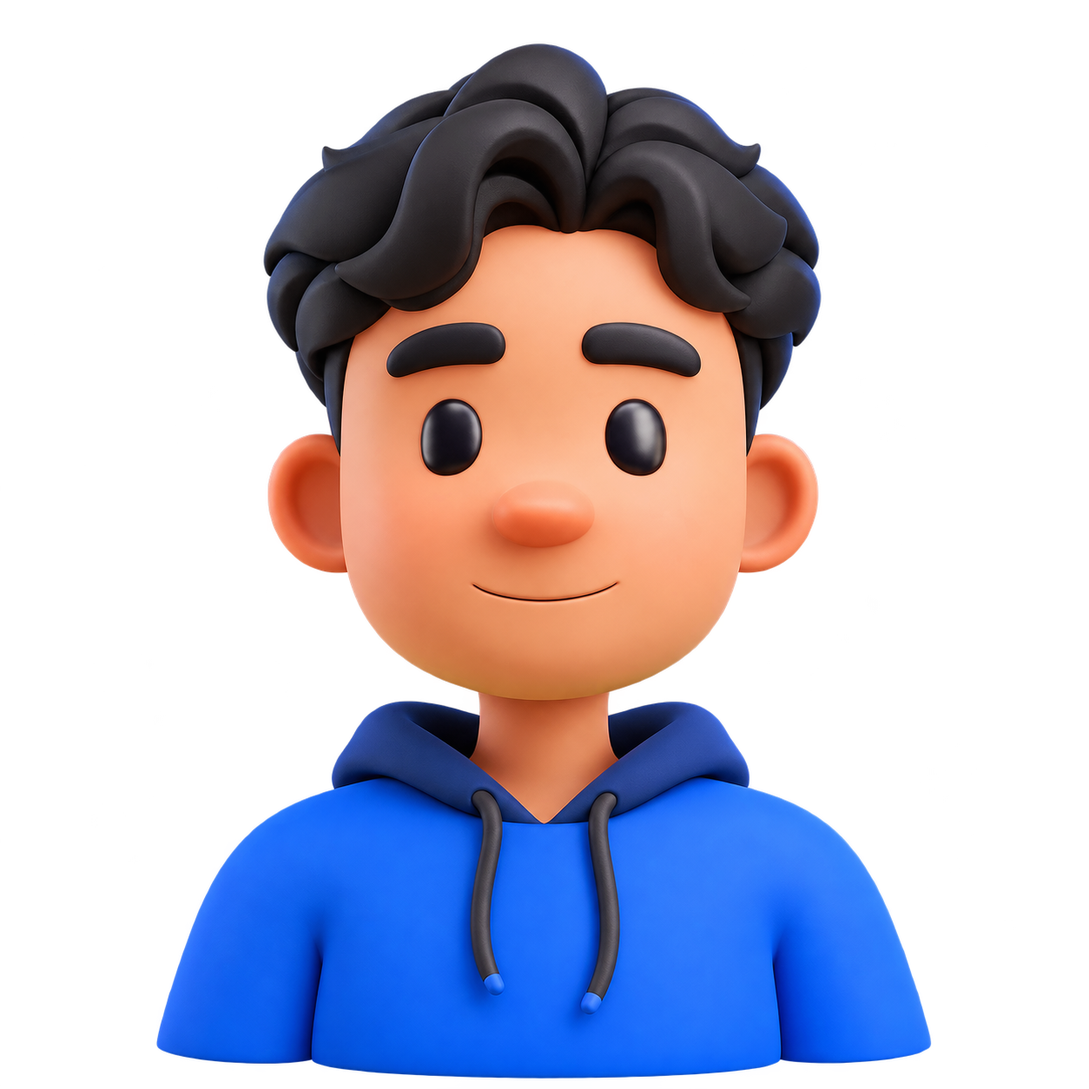
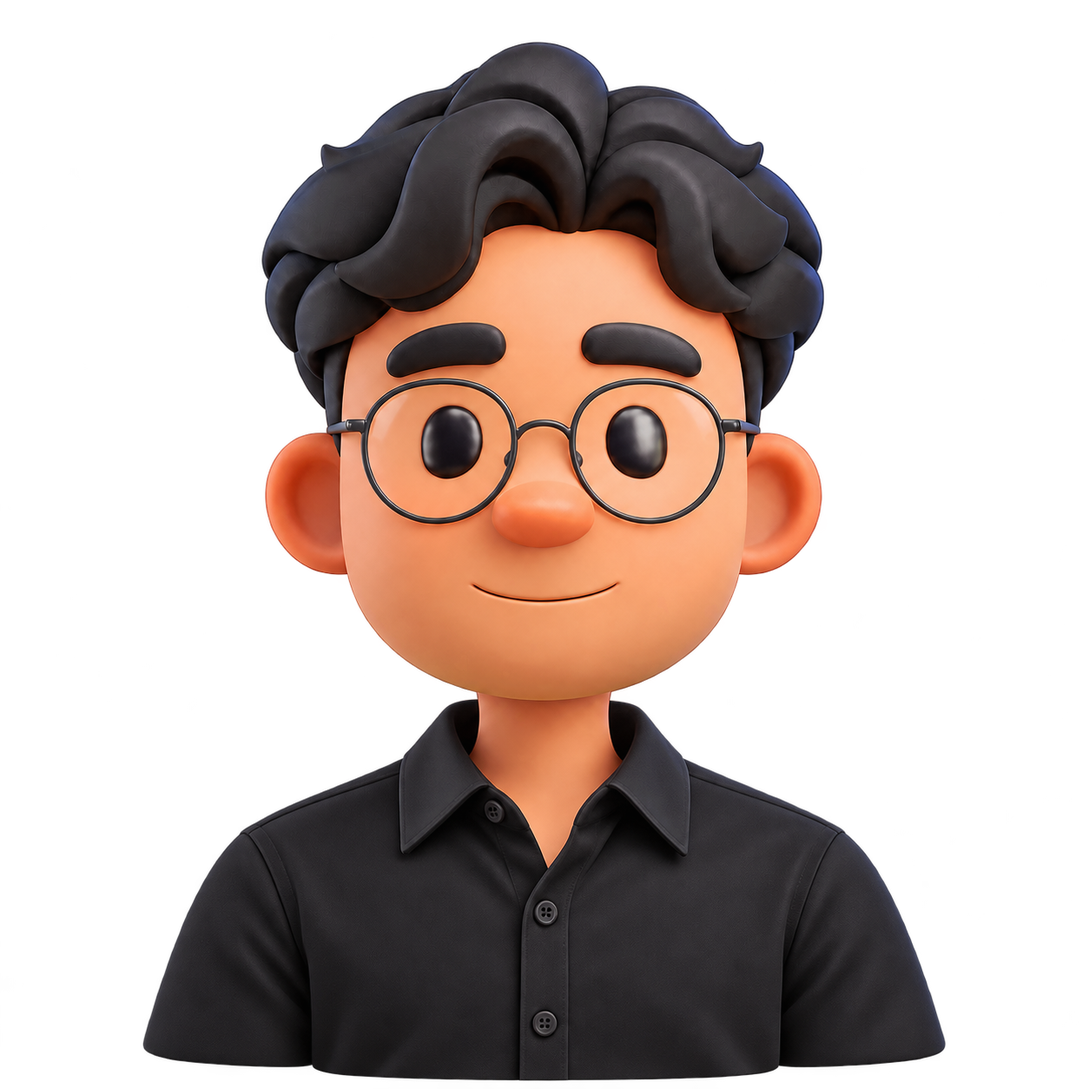
update project

diff --git a/src/app/page.tsx b/src/app/page.tsx
@@ -2,6 +2,7 @@
 import { useState } from 'react';
 import Image from 'next/image';
 import HeroAvatar from '@/components/HeroAvatar';
+import SkillsCube from '@/components/SkillsCube';
 import SceneContent, { MotionText } from '@/components/SceneContent';
 import TradingAchievements from '@/components/TradingAchievements';
 import { scenes, useFocusNavigation } from '@/components/useFocusNavigation';
@@ -10,7 +11,9 @@ import { ArrowUpRight, ArrowRight, Code2, ChartNoAxesCombined, Menu, X, Plus, Mi
 const menuIcons=[BriefcaseBusiness,UserRound,ChartNoAxesCombined,Mail];
 const projects=[
  {name:'BillMate',category:'GROUP EXPENSE MANAGEMENT',tag:'Finance tools',description:'Split group expenses, simplify who owes whom, and settle up with VietQR. Includes shared-fund tracking and Excel import/export.',stack:['Next.js','TypeScript','Zustand','Recharts'],kind:'billmate',image:'/images/projects/billmate-live.jpg',url:'https://bill-mate-five.vercel.app/',overview:'An expense-sharing app for trips, meals and everyday group spending. Members can split bills equally or enter custom amounts, track a shared fund and see a clear settlement plan.',details:['Equal and custom expense splits, with member balances and simplified debt settlements.','Shared-fund mode, expense categories and visual spending summaries.','VietQR payment codes, Excel import/export and downloadable share cards.','Client-side state with Zustand, browser storage and shareable URL snapshots.']},
- {name:'BoardRealm',category:'REAL-TIME MULTIPLAYER PLATFORM',tag:'Multiplayer',description:'Play chess, Xiangqi and party games with friends in shared rooms. Real-time game-state sync, spectator access and link-based invitations.',stack:['Next.js','TypeScript','Supabase Realtime','Framer Motion'],kind:'boardrealm',image:'/images/projects/boardrealm-live.jpg',url:'https://chess-tournament-xi.vercel.app/',overview:'A browser-based collection of board and party games that connects friends through shareable rooms. The project includes chess, Xiangqi, Go, Gomoku, Checkers, Jungle, Ô Ăn Quan, Werewolf, Uno, Exploding Kittens and Battleship.',details:['Create or join a room via its link, with player and spectator roles.','Supabase Realtime broadcasts synchronize moves, room state and game events.','Chess room controls include readiness, time settings and undo requests.','Game-specific boards, rule logic and state contexts, with animated interface feedback.']}
+ {name:'BoardRealm',category:'REAL-TIME MULTIPLAYER PLATFORM',tag:'Multiplayer',description:'Play chess, Xiangqi and party games with friends in shared rooms. Real-time game-state sync, spectator access and link-based invitations.',stack:['Next.js','TypeScript','Supabase Realtime','Framer Motion'],kind:'boardrealm',image:'/images/projects/boardrealm-live.jpg',url:'https://chess-tournament-xi.vercel.app/',overview:'A browser-based collection of board and party games that connects friends through shareable rooms. The project includes chess, Xiangqi, Go, Gomoku, Checkers, Jungle, Ô Ăn Quan, Werewolf, Uno, Exploding Kittens and Battleship.',details:['Create or join a room via its link, with player and spectator roles.','Supabase Realtime broadcasts synchronize moves, room state and game events.','Chess room controls include readiness, time settings and undo requests.','Game-specific boards, rule logic and state contexts, with animated interface feedback.']},
+ {name:'ToolHub',category:'EVERYDAY UTILITY WORKSPACE',tag:'Utilities',description:'52 practical tools in one workspace: JSON, text, images, design and daily utilities. Search, save favourites and get results without an account.',stack:['JavaScript','HTML / CSS','Browser APIs'],kind:'toolhub',image:'/images/projects/toolhub-live.jpg',url:'https://tool-hub-tau-ten.vercel.app/',overview:'A browser-based toolkit designed to reduce repetitive work. ToolHub brings development, text, security, design, network, finance, daily productivity and marketing utilities together in a searchable workspace.',details:['52 tools organised by category, with search, favourites and recently used tools.','Developer utilities include JSON formatting and schema validation, SQL formatting, UUID generation, encoding and timestamp conversion.','Design utilities include palettes, SVG optimisation, image cropping and conversion, and favicon generation.','Most tools process locally in the browser; IP and exchange-rate lookups explicitly use online services.']}
+
 ];
 export default function Home(){
  const [workIndex,setWorkIndex]=useState(0);
@@ -21,10 +24,10 @@ export default function Home(){
  const workPosition=visibleProjects.indexOf(workIndex);
  async function contact(e:React.FormEvent<HTMLFormElement>){e.preventDefault();setSending(true);setStatus('');const form=e.currentTarget;const data=Object.fromEntries(new FormData(form));try{const res=await fetch('/api/contact',{method:'POST',headers:{'Content-Type':'application/json'},body:JSON.stringify(data)});const result=await res.json();setStatus(res.ok?'Message sent. Thank you for reaching out.':result.error);if(res.ok)form.reset()}catch{setStatus('Connection failed. Please try again.')}finally{setSending(false)}}
  return <>
- <header className="nav"><button className="wordmark brand-button" aria-label="Huy home" onClick={()=>go(0)}><span className="avatar-logo"><Image src="/images/huy-avatar-toy-3d.png" alt="" width={64} height={64} priority/></span><span className="brand-name">huy<span>.</span></span><span className="wordmark-label">FRONTEND DEVELOPER & TRADER</span></button><nav className={menu?'nav-links expanded':'nav-links'} aria-label="Main navigation">{scenes.slice(1).map((x,i)=>{const Icon=menuIcons[i];return <button key={x} className={scene===i+1?'current':''} aria-current={scene===i+1?'page':undefined} onClick={()=>{go(i+1);setMenu(false)}}><Icon size={15} strokeWidth={1.6} aria-hidden="true"/><span>{x}</span></button>})}</nav><button className="nav-contact" onClick={()=>go(4)}>Let’s talk <ArrowUpRight size={15}/></button><button className="menu-toggle" aria-label={menu?'Close menu':'Open menu'} aria-expanded={menu} onClick={()=>setMenu(!menu)}>{menu?<X/>:<Menu/>}</button></header>
+ <header className="nav"><button className="wordmark brand-button" aria-label="Huy home" onClick={()=>go(0)}><span className="avatar-logo"><Image src="/images/huy-avatar-black-shirt-3d.png" alt="" width={64} height={64} priority/></span><span className="brand-name">huy<span>.</span></span><span className="wordmark-label">FRONTEND DEVELOPER & TRADER</span></button><nav className={menu?'nav-links expanded':'nav-links'} aria-label="Main navigation">{scenes.slice(1).map((x,i)=>{const Icon=menuIcons[i];return <button key={x} className={scene===i+1?'current':''} aria-current={scene===i+1?'page':undefined} onClick={()=>{go(i+1);setMenu(false)}}><Icon size={15} strokeWidth={1.6} aria-hidden="true"/><span>{x}</span></button>})}</nav><button className="nav-contact" onClick={()=>go(4)}>Let’s talk <ArrowUpRight size={15}/></button><button className="menu-toggle" aria-label={menu?'Close menu':'Open menu'} aria-expanded={menu} onClick={()=>setMenu(!menu)}>{menu?<X/>:<Menu/>}</button></header>
  <main className="focus-stage cinematic-stage" data-phase={phase} data-engine={engine} style={{'--scene-direction':direction} as React.CSSProperties}><div className="cinematic-grid" aria-hidden="true"/><div className="scene-atmosphere" aria-hidden="true"><div className="atmosphere-orb orb-a"/><div className="atmosphere-orb orb-b"/><div className="atmosphere-orbit"/></div><SceneContent key={`scene-${scene}`}>{scene===0&&<section className="hero"><div className="hero-topline"><span><i/> OPEN TO INTERESTING COLLABORATIONS</span><span>BASED IN VIETNAM · THINKING GLOBALLY</span></div><div className="hero-layout"><div className="hero-copy"><div className="eyebrow">FRONTEND DEVELOPER / FUTURES TRADER</div><h1><MotionText>I build systems.<br/>I trade <span>possibilities.</span></MotionText></h1><p>Frontend Developer working with Next.js and React.<br/>Futures trader focused on NQ / ES / YM,<br className="desktop-break"/> QT × ICT and the NYAM session.</p><div className="hero-actions"><button className="button primary" onClick={()=>go(1)}>Explore my work <ArrowUpRight size={17}/></button><button className="text-link" onClick={()=>go(2)}>The person behind it <ArrowRight size={16}/></button></div><div className="mode-switch" role="group" aria-label="Explore perspective"><button className={mode==='dev'?'active':''} onClick={()=>setMode('dev')}><Code2 size={15}/> Developer</button><button className={mode==='trader'?'active':''} onClick={()=>setMode('trader')}><ChartNoAxesCombined size={15}/> Trader</button></div></div><div className="hero-art"><div className="art-cross top">+</div><HeroAvatar mode={mode}/><div className="orbit-label"><span className="tiny-square"/>{mode==='dev'?'BUILD. TEST. ITERATE.':'OBSERVE. PLAN. EXECUTE.'}</div><div className="art-caption"><span>HUY / DIGITAL SELF</span><span>FIG. 001 / {mode==='dev'?'SYSTEMS':'MARKETS'}</span></div><div className="art-cross bottom">+</div></div></div><div className="hero-bottom"><span>SCROLL TO EXPLORE <span className="down">↓</span></span><span>CODE WITH PURPOSE. TRADE WITH DISCIPLINE.</span><span>© 2026</span></div></section>}
- {scene===1&&<section className="section work" id="work"><div className="section-heading"><div><div className="eyebrow">IDEAS INTO REALITY</div><h2><MotionText>Selected work<span className="accent">.</span></MotionText></h2></div><p>A few things I’ve built.<br/>Each one, a different problem to solve.</p></div><div className="work-toolbar"><div className="filters">{['All work','Finance tools','Multiplayer'].map(f=><button key={f} className={filter===f?'selected':''} onClick={()=>{setFilter(f);setWorkIndex(f==='Multiplayer'?1:0)}}>{f}</button>)}</div><span>PERSONAL PROJECTS / LIVE DEMOS</span></div><div className="project-pager"><span>PROJECT {String(workPosition+1).padStart(2,'0')} / {String(visibleProjects.length).padStart(2,'0')}</span><button aria-label="Previous project" disabled={workPosition<=0} onClick={()=>setWorkIndex(visibleProjects[workPosition-1])}>←</button><button aria-label="Next project" disabled={workPosition===visibleProjects.length-1} onClick={()=>setWorkIndex(visibleProjects[workPosition+1])}>→</button></div><div className="project-grid real-projects">{projects.map((p,i)=>(filter==='All work'||filter===p.tag)&&<button className={'project '+(i===workIndex?'mobile-current':'')} onPointerMove={e=>{if(matchMedia('(prefers-reduced-motion: reduce)').matches)return;const r=e.currentTarget.getBoundingClientRect();e.currentTarget.style.setProperty('--card-x',`${((e.clientX-r.left)/r.width-.5)*7}deg`);e.currentTarget.style.setProperty('--card-y',`${-((e.clientY-r.top)/r.height-.5)*6}deg`);e.currentTarget.style.setProperty('--light-x',`${(e.clientX-r.left)/r.width*100}%`);e.currentTarget.style.setProperty('--light-y',`${(e.clientY-r.top)/r.height*100}%`)}} onPointerLeave={e=>{e.currentTarget.style.setProperty('--card-x','0deg');e.currentTarget.style.setProperty('--card-y','0deg')}} key={p.name} onClick={()=>setProject(i)}><ProjectPreview kind={p.kind}/><div className="project-info"><span className="eyebrow">{p.category}</span><h3>{p.name}<ArrowUpRight size={21}/></h3><p>{p.description}</p><div className="tags">{p.stack.map(s=><span key={s}>{s}</span>)}</div></div></button>)}</div></section>}
- {scene===2&&<section id="about" className="focus-about"><div className="about-emblem" aria-hidden="true"><div className="emblem-ring"/><Image className="about-avatar" src="/images/huy-avatar-toy-3d.png" alt="Huy, toy-style 3D avatar" width={320} height={320}/><span>LOGIC × INSTINCT</span></div><div><div className="eyebrow">THE PERSON BEHIND THE SCREEN</div><h2><MotionText>Two worlds.<br/>One <em>way of thinking.</em></MotionText></h2><p>I’m Huy — a Frontend Developer building responsive, interactive web experiences with Next.js, React and TypeScript.</p><p>My toolkit includes Tailwind CSS, Zustand, Framer Motion and Recharts. Beyond the frontend, I trade NQ, ES and YM with a QT × ICT approach, focused on NYAM.</p><div className="personal-stack" aria-label="Technology stack">{['Next.js','React.js','TypeScript','Tailwind CSS','Zustand','Framer Motion','Recharts','Supabase'].map(tech=><span key={tech}>{tech}</span>)}</div><a className="profile-github" href="https://github.com/hdieuhuy" target="_blank" rel="noopener noreferrer"><Code2 size={14}/> github.com/hdieuhuy <ArrowUpRight size={13}/></a></div></section>}
+ {scene===1&&<section className="section work" id="work"><div className="section-heading"><div><div className="eyebrow">IDEAS INTO REALITY</div><h2><MotionText>Selected work<span className="accent">.</span></MotionText></h2></div><p>A few things I’ve built.<br/>Each one, a different problem to solve.</p></div><div className="work-toolbar"><div className="filters">{['All work','Finance tools','Multiplayer','Utilities'].map(f=><button key={f} className={filter===f?'selected':''} onClick={()=>{setFilter(f);setWorkIndex(Math.max(0,projects.findIndex(p=>f==='All work'||p.tag===f)))}}>{f}</button>)}</div><span>PERSONAL PROJECTS / LIVE DEMOS</span></div><div className="project-pager"><span>PROJECT {String(workPosition+1).padStart(2,'0')} / {String(visibleProjects.length).padStart(2,'0')}</span><button aria-label="Previous project" disabled={workPosition<=0} onClick={()=>setWorkIndex(visibleProjects[workPosition-1])}>←</button><button aria-label="Next project" disabled={workPosition===visibleProjects.length-1} onClick={()=>setWorkIndex(visibleProjects[workPosition+1])}>→</button></div><div className="project-grid real-projects">{projects.map((p,i)=>(filter==='All work'||filter===p.tag)&&<button className={'project '+(i===workIndex?'mobile-current':'')} onPointerMove={e=>{if(matchMedia('(prefers-reduced-motion: reduce)').matches)return;const r=e.currentTarget.getBoundingClientRect();e.currentTarget.style.setProperty('--card-x',`${((e.clientX-r.left)/r.width-.5)*7}deg`);e.currentTarget.style.setProperty('--card-y',`${-((e.clientY-r.top)/r.height-.5)*6}deg`);e.currentTarget.style.setProperty('--light-x',`${(e.clientX-r.left)/r.width*100}%`);e.currentTarget.style.setProperty('--light-y',`${(e.clientY-r.top)/r.height*100}%`)}} onPointerLeave={e=>{e.currentTarget.style.setProperty('--card-x','0deg');e.currentTarget.style.setProperty('--card-y','0deg')}} key={p.name} onClick={()=>setProject(i)}><ProjectPreview kind={p.kind}/><div className="project-info"><span className="eyebrow">{p.category}</span><h3>{p.name}<ArrowUpRight size={21}/></h3><p>{p.description}</p><div className="tags">{p.stack.map(s=><span key={s}>{s}</span>)}</div></div></button>)}</div></section>}
+ {scene===2&&<section id="about" className="focus-about"><SkillsCube/><div><div className="eyebrow">THE PERSON BEHIND THE SCREEN</div><h2><MotionText>Two worlds.<br/>One <em>way of thinking.</em></MotionText></h2><p>I’m Huy — a Frontend Developer building responsive, interactive web experiences with Next.js, React and TypeScript.</p><p>My toolkit includes Tailwind CSS, Zustand, Framer Motion and Recharts. Beyond the frontend, I trade NQ, ES and YM with a QT × ICT approach, focused on NYAM.</p><div className="personal-stack" aria-label="Technology stack">{['Next.js','React.js','TypeScript','Tailwind CSS','Zustand','Framer Motion','Recharts','Supabase'].map(tech=><span key={tech}>{tech}</span>)}</div><a className="profile-github" href="https://github.com/hdieuhuy" target="_blank" rel="noopener noreferrer"><Code2 size={14}/> github.com/hdieuhuy <ArrowUpRight size={13}/></a></div></section>}
  {scene===3&&<section id="trading" className="section trading"><div className="section-heading"><div><div className="eyebrow">PROCESS OVER PREDICTION</div><h2><MotionText>Read the context.<br/>Respect the <span className="accent">risk.</span></MotionText></h2></div><span className="trading-badge"><span className="tiny-square"/> QT × ICT / NYAM</span></div><div className="trading-layout"><TradingAchievements onDialogChange={setAchievementOpen}/><div className="principles"><p className="trading-voice">Not every move needs a trade.</p>{[['Three markets. One focused lens.','NQ, ES and YM are where I focus my attention. A defined watchlist lets me spend more time understanding the context and less time chasing the next moving chart.'],['A framework, not a forecast.','QT × ICT — Quarter Theory paired with ICT concepts — gives structure to how I approach the market. I look for context and a clear trading idea, while leaving room for uncertainty.'],['One session. Full attention.','My trading day centres on the New York morning: NYAM. Focusing on one session is a deliberate choice — fewer distractions, a clearer routine and more attention to the decisions that matter.']].map(([title,body],i)=><div className={'principle '+(open===i?'is-open':'')} key={title}><button aria-expanded={open===i} onClick={()=>setOpen(open===i?null:i)}><span>{title}</span>{open===i?<Minus size={17}/>:<Plus size={17}/>}</button>{open===i&&<p>{body}</p>}</div>)}<small>FOCUS OVER FREQUENCY. PROCESS OVER PREDICTION.</small></div></div></section>}
  {scene===4&&<section id="contact" className="section contact"><div><div className="eyebrow">GOOD THINGS START WITH A CONVERSATION</div><h2><MotionText>Let’s build<br/>the next <span>move.</span><ArrowUpRight/></MotionText></h2><p>Have a project in mind, an idea to explore,<br/>or just a shared curiosity? I’d love to hear it.</p><div className="contact-direct"><a href="mailto:hdieuhuy227@gmail.com">hdieuhuy227@gmail.com <ArrowUpRight size={14}/></a><a href="https://github.com/hdieuhuy" target="_blank" rel="noopener noreferrer"><Code2 size={14}/> GitHub / hdieuhuy <ArrowUpRight size={13}/></a></div><div className="contact-signature">HUY <span>/ FRONTEND DEVELOPER & TRADER</span></div></div><form onSubmit={contact}><div className="form-row"><label>Your name<input name="name" placeholder="Alex Nguyen" autoComplete="name" required maxLength={100}/></label><label>Email address<input name="email" type="email" placeholder="alex@company.com" autoComplete="email" required maxLength={254}/></label></div><label>What are you thinking?<textarea name="message" placeholder="Tell me a little about your idea…" required minLength={10} maxLength={5000} rows={3}/></label><button className="button primary" disabled={sending}>{sending?'Sending…':'Send a message'}<Send size={15}/></button><p className="form-status" role="status">{status}</p></form></section>}
  </SceneContent>{phase!=='idle'&&engine==='fallback'&&<div className="scene-transition" key={`transition-${transitionId}`} aria-hidden="true"><div className="transition-aperture"/><div className="transition-slices">{[0,1,2,3,4].map(i=><i key={i} style={{'--slice':i} as React.CSSProperties}/>)}</div><div className="transition-horizon"/><div className="transition-coordinate"><span>HUY /</span><span>CHANGING PERSPECTIVE</span><b>↗</b></div></div>}</main><footer className="focus-footer"><span className="scene-counter">0{scene+1}<span> / 05</span><b>{scenes[scene]}</b></span><div className="scene-dots" aria-label="Choose a scene">{scenes.map((name,i)=><button key={name} aria-label={name+' scene'} aria-current={scene===i?'step':undefined} className={scene===i?'active':''} onClick={()=>go(i)}/>)}</div><div className="scene-controls"><span>SCROLL TO EXPLORE</span><button aria-label="Previous scene" disabled={scene===0} onClick={()=>go(scene-1)}><ChevronUp size={16}/></button><button aria-label="Next scene" disabled={scene===4} onClick={()=>go(scene+1)}><ChevronDown size={16}/></button></div></footer><div className="scene-announcement" role="status" aria-live="polite">{scenes[scene]} — scene {scene+1} of 5</div>

diff --git a/src/components/SkillsCube.tsx b/src/components/SkillsCube.tsx
@@ -1,0 +1,34 @@
+'use client';
+import { useEffect, useRef, useState, type CSSProperties } from 'react';
+import { Code2, Atom, Layers3, ChartNoAxesCombined, ScanLine, Clock3, Pause, Play, Move } from 'lucide-react';
+const skills=[
+ {name:'Next.js',category:'DEVELOPMENT',detail:'App Router · React',description:'Building responsive web applications with Next.js and React.',icon:Code2,position:'front',x:-12,y:-20,normal:[0,0,1]},
+ {name:'React.js',category:'DEVELOPMENT',detail:'Components · State',description:'Turning interface ideas into reusable components and interactive experiences.',icon:Atom,position:'right',x:-12,y:-110,normal:[1,0,0]},
+ {name:'UI & Motion',category:'DEVELOPMENT',detail:'TypeScript · Tailwind · Motion',description:'Bringing structure, visual detail and purposeful motion to the frontend.',icon:Layers3,position:'back',x:-12,y:-200,normal:[0,0,-1]},
+ {name:'Markets',category:'TRADING',detail:'NQ · ES · YM',description:'A focused watchlist: NQ, ES and YM futures.',icon:ChartNoAxesCombined,position:'left',x:-12,y:-290,normal:[-1,0,0]},
+ {name:'QT × ICT',category:'TRADING',detail:'Quarter Theory × ICT',description:'A framework for reading market context and shaping a deliberate trading idea.',icon:ScanLine,position:'top',x:-78,y:-20,normal:[0,-1,0]},
+ {name:'NYAM',category:'TRADING',detail:'New York Morning',description:'One session, full attention: the New York morning.',icon:Clock3,position:'bottom',x:78,y:-20,normal:[0,1,0]}
+];
+function nearestAngle(target:number,current:number){return target+Math.round((current-target)/360)*360}
+export default function SkillsCube(){
+ const [active,setActive]=useState(0);
+ const [dragging,setDragging]=useState(false);const [hovered,setHovered]=useState(false);const [focused,setFocused]=useState(false);const [stopped,setStopped]=useState(false);const [reduced,setReduced]=useState(false);const [hidden,setHidden]=useState(false);
+ const cube=useRef<HTMLDivElement>(null);const angles=useRef({x:-12,y:-20});const velocity=useRef({x:0,y:0});const target=useRef<{x:number;y:number}|null>(null);const activeRef=useRef(0);
+ const drag=useRef<{id:number;x:number;y:number;time:number}|null>(null);
+ function paint(){cube.current?.style.setProperty('--cube-x',`${angles.current.x}deg`);cube.current?.style.setProperty('--cube-y',`${angles.current.y}deg`);const {x,y}=angles.current;const rx=x*Math.PI/180,ry=y*Math.PI/180;let best=0,score=-Infinity;skills.forEach((skill,i)=>{const [nx,ny,nz]=skill.normal;const facing=Math.sin(rx)*ny+Math.cos(rx)*(-Math.sin(ry)*nx+Math.cos(ry)*nz);if(facing>score){score=facing;best=i}});if(best!==activeRef.current){activeRef.current=best;setActive(best)}}
+ function select(index:number){setStopped(true);velocity.current={x:0,y:0};target.current={x:nearestAngle(skills[index].x,angles.current.x),y:nearestAngle(skills[index].y,angles.current.y)};if(reduced){angles.current=target.current;target.current=null;paint()}}
+ useEffect(()=>{const media=matchMedia('(prefers-reduced-motion: reduce)');const preference=()=>setReduced(media.matches);const visibility=()=>setHidden(document.hidden);preference();visibility();media.addEventListener('change',preference);document.addEventListener('visibilitychange',visibility);return()=>{media.removeEventListener('change',preference);document.removeEventListener('visibilitychange',visibility)}},[]);
+ const paused=hovered||focused||stopped||dragging||reduced||hidden;
+ useEffect(()=>{let frame=0,last=0;function tick(now:number){const dt=last?Math.min((now-last)/1000,.04):0;last=now;if(!drag.current&&!hidden&&!reduced){if(target.current){const blend=1-Math.exp(-9*dt);angles.current.x+=(target.current.x-angles.current.x)*blend;angles.current.y+=(target.current.y-angles.current.y)*blend;if(Math.abs(target.current.x-angles.current.x)+Math.abs(target.current.y-angles.current.y)<.05){angles.current=target.current;target.current=null}}else if(Math.abs(velocity.current.x)+Math.abs(velocity.current.y)>.2){angles.current.x+=velocity.current.x*dt;angles.current.y+=velocity.current.y*dt;const decay=Math.exp(-4*dt);velocity.current.x*=decay;velocity.current.y*=decay}else if(!paused){angles.current.x+=6*dt;angles.current.y-=14*dt}paint()}frame=requestAnimationFrame(tick)}frame=requestAnimationFrame(tick);return()=>cancelAnimationFrame(frame)},[paused,hidden,reduced]);
+ return <div className="about-emblem skills-cube-panel" onPointerEnter={e=>{if(e.pointerType==='mouse')setHovered(true)}} onPointerLeave={()=>setHovered(false)} onFocusCapture={()=>setFocused(true)} onBlurCapture={e=>{if(!e.currentTarget.contains(e.relatedTarget as Node|null))setFocused(false)}} onKeyDown={e=>{if(['ArrowRight','ArrowDown','ArrowLeft','ArrowUp'].includes(e.key)){e.preventDefault();e.stopPropagation();setStopped(true);target.current=null;velocity.current={x:0,y:0};if(e.key==='ArrowLeft')angles.current.y-=20;if(e.key==='ArrowRight')angles.current.y+=20;if(e.key==='ArrowUp')angles.current.x-=15;if(e.key==='ArrowDown')angles.current.x+=15;paint()}}}>
+
+  <div className="cube-panel-heading"><span>SIX SIDES. ONE MINDSET.</span><button className="cube-play" onClick={()=>{setStopped(!stopped);target.current=null;velocity.current={x:0,y:0}}} disabled={reduced} aria-label={stopped?'Start automatic cube rotation':'Pause automatic cube rotation'} aria-pressed={stopped}>{stopped?<Play size={12}/>:<Pause size={12}/>}</button></div>
+  <div className={'cube-viewport '+(dragging?'is-dragging':'')} data-scene-gesture="cube" role="group" aria-label="Interactive skills cube. Drag to rotate or use the six buttons below." onPointerDown={e=>{if(e.button!==0)return;e.currentTarget.setPointerCapture(e.pointerId);target.current=null;velocity.current={x:0,y:0};drag.current={id:e.pointerId,x:e.clientX,y:e.clientY,time:performance.now()};setDragging(true)}} onPointerMove={e=>{const d=drag.current;if(!d||d.id!==e.pointerId)return;const now=performance.now(),dt=Math.max(.008,(now-d.time)/1000);const dx=(e.clientX-d.x)*.6,dy=-(e.clientY-d.y)*.6;angles.current.x+=dy;angles.current.y+=dx;velocity.current={x:Math.max(-180,Math.min(180,dy/dt)),y:Math.max(-180,Math.min(180,dx/dt))};drag.current={id:d.id,x:e.clientX,y:e.clientY,time:now};paint()}} onPointerUp={e=>{if(!drag.current)return;drag.current=null;setDragging(false);if(e.currentTarget.hasPointerCapture(e.pointerId))e.currentTarget.releasePointerCapture(e.pointerId)}} onPointerCancel={()=>{drag.current=null;velocity.current={x:0,y:0};setDragging(false)}}>
+
+   <div className="cube-floor" aria-hidden="true"/><div className="skills-cube" ref={cube} style={{'--cube-x':'-12deg','--cube-y':'-20deg'} as CSSProperties} aria-hidden="true">{skills.map((skill,i)=><div key={skill.name} className={`cube-face cube-${skill.position} ${i>2?'trading-face':''}`}><div className="cube-face-top"><span>{skill.category}</span><span>0{i+1}</span></div><skill.icon className="cube-face-icon" strokeWidth={1.1}/><h3>{skill.name}</h3><p>{skill.detail}</p><div className="cube-face-bottom"><span>HUY / {i<3?'BUILD':'TRADE'}</span><i/></div></div>)}</div>
+  </div>
+  <div className="cube-caption" aria-live={paused?'polite':'off'} aria-atomic="true"><span>{String(active+1).padStart(2,'0')} / 06 <b>{skills[active].name}</b></span><p>{skills[active].description}</p></div>
+  <div className="cube-controls" role="group" aria-label="Choose a skill">{skills.map((skill,i)=><button key={skill.name} className={i===active?'active':''} aria-pressed={i===active} aria-label={`Show ${skill.name} face`} onClick={()=>select(i)}><skill.icon size={13}/><span>{skill.name}</span></button>)}</div>
+  <div className="cube-hint"><Move size={10}/><span>DRAG TO EXPLORE</span><i/>{reduced?'MANUAL MODE':paused?'ROTATION PAUSED':'CONTINUOUS ROTATION'}</div>
+ </div>
+}

diff --git a/src/app/skills-cube.css b/src/app/skills-cube.css
@@ -1,0 +1,17 @@
+.about-emblem.skills-cube-panel{--cube-size:210px;--cube-half:105px;display:flex;flex-direction:column;justify-content:center;align-items:stretch;height:auto;min-height:450px;max-width:480px;width:100%;background:radial-gradient(ellipse at 50% 36%,#167ae41c,transparent 65%);isolation:isolate}
+.cube-panel-heading{display:flex;align-items:center;justify-content:space-between;gap:15px;padding:0 14px;font:7px var(--mono);letter-spacing:1.5px;color:#6f99c4}.cube-play{background:#0c2039;border:1px solid #38618b66;color:#9dc9f2;display:grid;place-items:center;width:26px;height:26px;border-radius:50%}.cube-play:disabled{opacity:.3;cursor:default}
+.cube-viewport{height:300px;display:grid;place-items:center;position:relative;perspective:1000px;cursor:grab;touch-action:none;user-select:none;-webkit-user-select:none}.cube-viewport.is-dragging{cursor:grabbing}
+.skills-cube{width:var(--cube-size);height:var(--cube-size);position:relative;transform-style:preserve-3d;transform:translateZ(-30px) rotateX(var(--cube-x)) rotateY(var(--cube-y));transition:transform 1.35s cubic-bezier(.45,0,.18,1)}.is-dragging .skills-cube{transition:none}
+.cube-face{position:absolute;inset:0;border:1px solid #5ba9ef9c;border-radius:9px;backface-visibility:hidden;-webkit-backface-visibility:hidden;background:linear-gradient(140deg,#153761f5,#08172dfc 65%,#112b49fc);box-shadow:inset 0 0 30px #3895ec12,inset 1px 1px 1px #9cddff22;display:flex;flex-direction:column;align-items:center;justify-content:center;padding:20px;color:#b6dafa;overflow:hidden}
+.cube-face::before{content:'';position:absolute;inset:0;pointer-events:none;background:linear-gradient(120deg,#8cd7ff0c,transparent 35%,transparent 70%,#8cd7ff08),linear-gradient(#71b7fb08 1px,transparent 1px),linear-gradient(90deg,#71b7fb08 1px,transparent 1px);background-size:100% 100%,25px 25px,25px 25px}
+.cube-front{transform:translateZ(var(--cube-half))}.cube-right{transform:rotateY(90deg) translateZ(var(--cube-half))}.cube-back{transform:rotateY(180deg) translateZ(var(--cube-half))}.cube-left{transform:rotateY(-90deg) translateZ(var(--cube-half))}.cube-top{transform:rotateX(90deg) translateZ(var(--cube-half))}.cube-bottom{transform:rotateX(-90deg) translateZ(var(--cube-half))}
+.cube-face.trading-face{background:linear-gradient(140deg,#124352f7,#071d2afc 65%,#123441fc);border-color:#55cad296;color:#a6e8ee}.cube-face-top,.cube-face-bottom{position:absolute;left:17px;right:17px;display:flex;align-items:center;justify-content:space-between;font:6px var(--mono);letter-spacing:1px;color:#709dc8}.cube-face-top{top:15px}.cube-face-bottom{bottom:15px;font-size:5px;color:#5e8bb7}.cube-face-bottom i{width:4px;height:4px;border-radius:50%;background:#76c6ff;box-shadow:0 0 9px #4db1ff88}.trading-face .cube-face-top,.trading-face .cube-face-bottom{color:#64a6b3}.trading-face .cube-face-bottom i{background:#75dce0}.cube-face-icon{width:46px;height:46px;color:inherit;margin-bottom:13px;filter:drop-shadow(0 0 10px #68c4ff22)}.cube-face h3{font:600 24px/1.2 var(--display);letter-spacing:-.8px;margin:0 0 9px;color:#e4f1fc}.cube-face p{font:7px/1.7 var(--mono);letter-spacing:.1px;color:#7fa7ca;margin:0;text-align:center}.trading-face p{color:#7ab2bb}.cube-floor{position:absolute;bottom:8px;width:230px;height:35px;border-radius:50%;background:radial-gradient(ellipse,#238cde22,transparent 68%);filter:blur(8px);transform:scaleX(1.2)}
+.cube-caption{padding:4px 14px 0;min-height:72px}.cube-caption>span{font:7px var(--mono);letter-spacing:1px;color:#6388ac}.cube-caption b{font-weight:500;color:#b2d6f5;margin-left:13px;font-size:9px;letter-spacing:.3px}.cube-caption>p{font-size:11px;line-height:1.7;margin:10px 0 0;color:#8ba3be;max-width:380px}
+.cube-controls{display:grid;grid-template-columns:repeat(6,1fr);gap:5px;margin:15px 12px 0}.cube-controls button{background:#0b1b2d;border:1px solid #29446066;border-radius:4px;padding:8px 2px;color:#5f809f;display:flex;flex-direction:column;align-items:center;gap:6px;transition:color .2s,background .2s,border-color .2s}.cube-controls button>span{font:5px var(--mono);white-space:nowrap}.cube-controls button.active{color:#a6d6ff;background:#102d49;border-color:#63a3dc77}.cube-controls button:nth-child(n+4).active{color:#9fe5e7;background:#0c2e38;border-color:#5bbec17a}.cube-controls button:hover{color:#c7e6ff;border-color:#5a9bd077}.cube-hint{display:flex;align-items:center;justify-content:center;gap:8px;margin-top:15px;font:5px var(--mono);color:#496d91;letter-spacing:1px}.cube-hint i{width:2px;height:2px;border-radius:50%;background:#496d91;margin-inline:3px}
+@media(max-width:1050px) and (min-width:761px){.about-emblem.skills-cube-panel{--cube-size:180px;--cube-half:90px}.cube-viewport{height:270px}.cube-face h3{font-size:21px}.cube-face p{font-size:6px}}
+@media(max-width:760px){.about-emblem.skills-cube-panel{--cube-size:125px;--cube-half:62.5px;min-height:0;max-width:400px;margin-inline:auto}.cube-panel-heading{font-size:5px;letter-spacing:1px;padding:0 10px}.cube-play{width:22px;height:22px}.cube-play svg{width:10px;height:10px}.cube-viewport{height:174px;perspective:700px}.cube-face{padding:10px;border-radius:6px}.cube-face-icon{width:28px;height:28px;margin-bottom:8px}.cube-face h3{font-size:15px;margin-bottom:6px;letter-spacing:-.4px}.cube-face p{font-size:4px}.cube-face-top{top:9px;left:10px;right:10px;font-size:3.5px;letter-spacing:.5px}.cube-face-bottom{bottom:9px;left:10px;right:10px;font-size:3px;letter-spacing:.6px}.cube-face-bottom i{width:3px;height:3px}.cube-floor{width:140px;height:20px;bottom:0}.cube-caption{min-height:42px;padding:0 10px}.cube-caption>span{font-size:5px}.cube-caption b{font-size:7px;margin-left:9px}.cube-caption>p{font-size:8px;line-height:1.5;margin-top:6px;max-width:none}.cube-controls{margin:9px 8px 0;gap:5px}.cube-controls button{padding:5px 2px;gap:4px}.cube-controls button svg{width:11px;height:11px}.cube-controls button>span{font-size:4px}.cube-hint{font-size:4px;margin-top:8px;gap:6px}.cube-hint svg{height:8px;width:8px}.focus-scene>section.focus-about{gap:17px}.focus-about h2{margin-block:12px;font-size:30px}.focus-about p{font-size:10px;line-height:1.7}.personal-stack{margin-top:12px}.profile-github{margin-top:12px}}
+@media(max-width:760px) and (max-height:730px){.about-emblem.skills-cube-panel{--cube-size:100px;--cube-half:50px}.cube-viewport{height:135px}.cube-face-icon{width:23px;height:23px;margin-bottom:5px}.cube-face h3{font-size:12px}.cube-face p{font-size:3.5px}.cube-face-top{font-size:3px;top:7px}.cube-face-bottom{bottom:7px;font-size:2.5px}.cube-caption{min-height:36px}.cube-caption>p{font-size:7px;margin-top:4px}.cube-controls{margin-top:6px}.cube-controls button{padding:4px 2px}.cube-hint{display:none}.focus-scene>section.focus-about{gap:10px}.focus-about h2{font-size:25px;margin-block:8px}.focus-about p{font-size:9px;line-height:1.55;margin-bottom:9px}.personal-stack{margin-top:8px;gap:4px}.personal-stack>span{font-size:5px;padding:4px 5px}.profile-github{margin-top:8px;font-size:7px}}
+@media(prefers-reduced-motion:reduce){.skills-cube{transition:none}.cube-controls button{transition:none}}
+/* Frame-driven free rotation; drag release retains inertia and never snaps. */
+.skills-cube{transition:none;will-change:transform}
+@media(prefers-reduced-motion:reduce){.skills-cube{will-change:auto}}

diff --git a/src/components/HeroAvatar.tsx b/src/components/HeroAvatar.tsx
@@ -5,7 +5,7 @@ export default function HeroAvatar({mode}:{mode:'dev'|'trader'}){
  const host=useRef<HTMLDivElement>(null);
  function move(event:React.PointerEvent<HTMLDivElement>){if(matchMedia('(prefers-reduced-motion: reduce)').matches)return;const rect=event.currentTarget.getBoundingClientRect();host.current?.style.setProperty('--portrait-x',`${((event.clientX-rect.left)/rect.width-.5)*12}deg`);host.current?.style.setProperty('--portrait-y',`${-((event.clientY-rect.top)/rect.height-.5)*9}deg`)}
  function reset(){host.current?.style.setProperty('--portrait-x','0deg');host.current?.style.setProperty('--portrait-y','0deg')}
- return <div ref={host} className={'portrait-stage '+mode} onPointerMove={move} onPointerLeave={reset}><div className="portrait-aura"/><RoleBackdrop mode={mode}/><div className="portrait-person"><Image src="/images/huy-avatar-toy-3d.png" alt="Huy — rounded 3D cartoon avatar in a blue hoodie" fill priority sizes="(max-width: 760px) 85vw, 45vw"/></div><span className="portrait-tag">{mode==='dev'?'< BUILDER / >':'↗ MARKET MINDSET'}</span></div>
+ return <div ref={host} className={'portrait-stage '+mode} onPointerMove={move} onPointerLeave={reset}><div className="portrait-aura"/><RoleBackdrop mode={mode}/><div className="portrait-person"><Image src="/images/huy-avatar-black-shirt-3d.png" alt="Huy — rounded 3D cartoon avatar wearing round glasses and a black button-up shirt" fill priority sizes="(max-width: 760px) 85vw, 45vw"/></div><span className="portrait-tag">{mode==='dev'?'< BUILDER / >':'↗ MARKET MINDSET'}</span></div>
 }
 
 function RoleBackdrop({mode}:{mode:'dev'|'trader'}){

diff --git a/src/app/globals.css b/src/app/globals.css
@@ -153,3 +153,7 @@ html.focus-experience,html.focus-experience body{height:100%;overflow:hidden;ove
 @media(max-height:710px) and (max-width:760px){.certificate-thumbnail{aspect-ratio:1.35}.certificate-copy h3{font-size:7px}.certificate-copy>span{font-size:4.5px}.trading-voice{font-size:13px;margin-bottom:10px}.focus-scene .principle p{font-size:9px;line-height:1.65}.focus-scene .trading-layout{gap:13px}.focus-scene .trading h2{font-size:25px}.focus-scene .principle>button{font-size:11px}}
 .focus-experience .nav-links button{display:inline-flex;align-items:center;justify-content:center;gap:8px}.nav-links button>svg{color:#7188a6;transition:color .2s,transform .25s}.nav-links button:hover>svg,.nav-links button.current>svg{color:var(--accent)}.nav-links button:hover>svg{transform:translateY(-1px)}
 @media(max-width:760px){.focus-experience .nav-links.expanded{gap:12px}.focus-experience .nav-links button{gap:6px;font-size:10px}.nav-links button>svg{width:13px;height:13px}}
+.focus-scene .real-projects{grid-template-columns:repeat(3,minmax(0,1fr));gap:24px;max-width:none}
+.focus-scene .real-projects .project-preview{max-height:230px}
+@media(max-width:760px){.focus-scene .real-projects{display:block}.focus-scene .real-projects .project-preview{max-height:220px}}
+@media(max-height:710px) and (max-width:760px){.focus-scene .real-projects .project-preview{max-height:165px}}

diff --git a/src/components/useFocusNavigation.ts b/src/components/useFocusNavigation.ts
@@ -58,7 +58,7 @@ export function useFocusNavigation(blocked: boolean) {
    if(event.key==='Home'||event.key==='End'){event.preventDefault();go(event.key==='Home'?0:scenes.length-1)}
   };
   const start=(event:TouchEvent)=>{startX=event.touches[0].clientX;startY=event.touches[0].clientY};
-  const end=(event:TouchEvent)=>{if(blocked||interactive(event.target)||performance.now()<lockedUntil.current)return;const dx=event.changedTouches[0].clientX-startX,dy=event.changedTouches[0].clientY-startY;if(Math.abs(dy)>65&&Math.abs(dy)>Math.abs(dx)*1.2)go(current.current+(dy<0?1:-1))};
+  const end=(event:TouchEvent)=>{if(blocked||interactive(event.target)||(event.target instanceof Element&&event.target.closest('[data-scene-gesture]'))||performance.now()<lockedUntil.current)return;const dx=event.changedTouches[0].clientX-startX,dy=event.changedTouches[0].clientY-startY;if(Math.abs(dy)>65&&Math.abs(dy)>Math.abs(dx)*1.2)go(current.current+(dy<0?1:-1))};
   addEventListener('wheel',wheel,{passive:false});addEventListener('keydown',key);addEventListener('touchstart',start,{passive:true});addEventListener('touchend',end,{passive:true});
   return()=>{document.documentElement.classList.remove('focus-experience');removeEventListener('wheel',wheel);removeEventListener('keydown',key);removeEventListener('touchstart',start);removeEventListener('touchend',end)};
  },[blocked,go]);

diff --git a/src/app/layout.tsx b/src/app/layout.tsx
@@ -1,5 +1,6 @@
 import type { Metadata } from 'next';
 import './globals.css';
 import './scene-transitions.css';
+import './skills-cube.css';
 export const metadata: Metadata = { title: 'Huy — Frontend Developer & Trader', description: 'Huy, Frontend Developer working with Next.js, React and TypeScript. Explore BillMate and BoardRealm, plus a trading focus on NQ / ES / YM, QT × ICT and NYAM.' };
 export default function RootLayout({ children }: Readonly<{children: React.ReactNode}>) { return <html lang="en"><body>{children}</body></html>; }

diff --git a/docs/avatar-black-shirt-generation.md b/docs/avatar-black-shirt-generation.md
@@ -1,0 +1,5 @@
+# Black shirt avatar
+
+ImageGen edit of `public/images/huy-avatar-glasses-3d.png`: replace only the blue hoodie with a black button-up shirt, pointed collar, subtle buttons and charcoal fabric highlights. Preserve the face, round clear glasses, hairstyle, expression, bust framing, 3D rendering and transparent background.
+
+Output: `public/images/huy-avatar-black-shirt-3d.png`. Applied to hero, header logo and app icon.

diff --git a/docs/avatar-glasses-generation.md b/docs/avatar-glasses-generation.md
@@ -1,0 +1,5 @@
+# Round glasses avatar
+
+Edited the existing blue hoodie 3D avatar using ImageGen. Added thin graphite circular prescription frames with clear lenses, preserving the face, hairstyle, clothing, framing and transparent background.
+
+Asset: `public/images/huy-avatar-glasses-3d.png`. Used in the hero, header logo and app icon.
